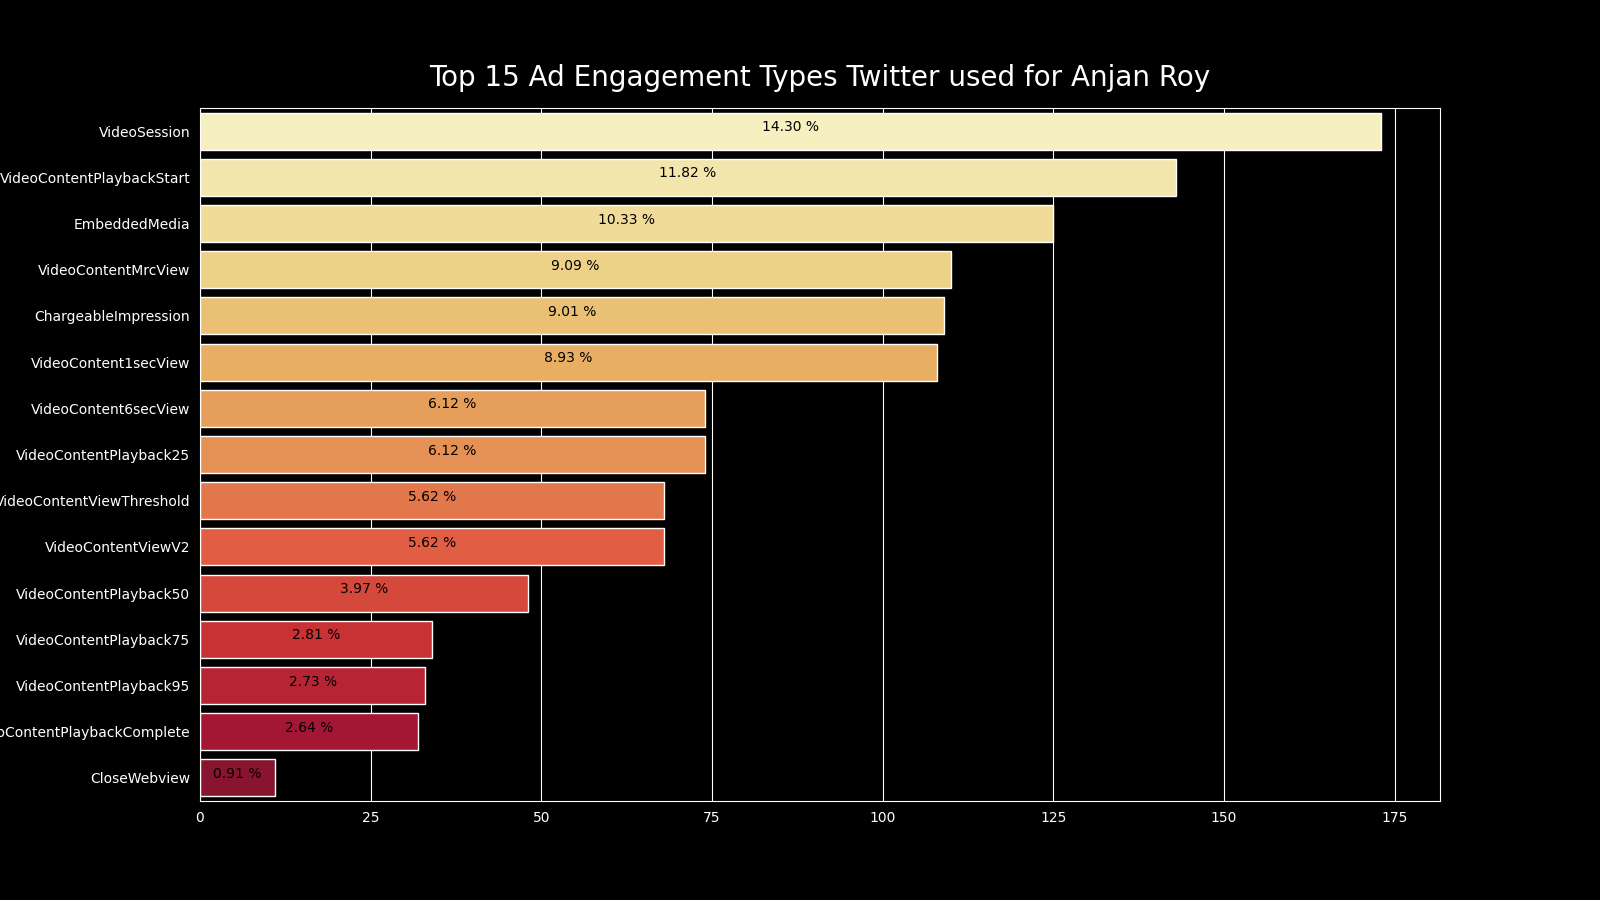
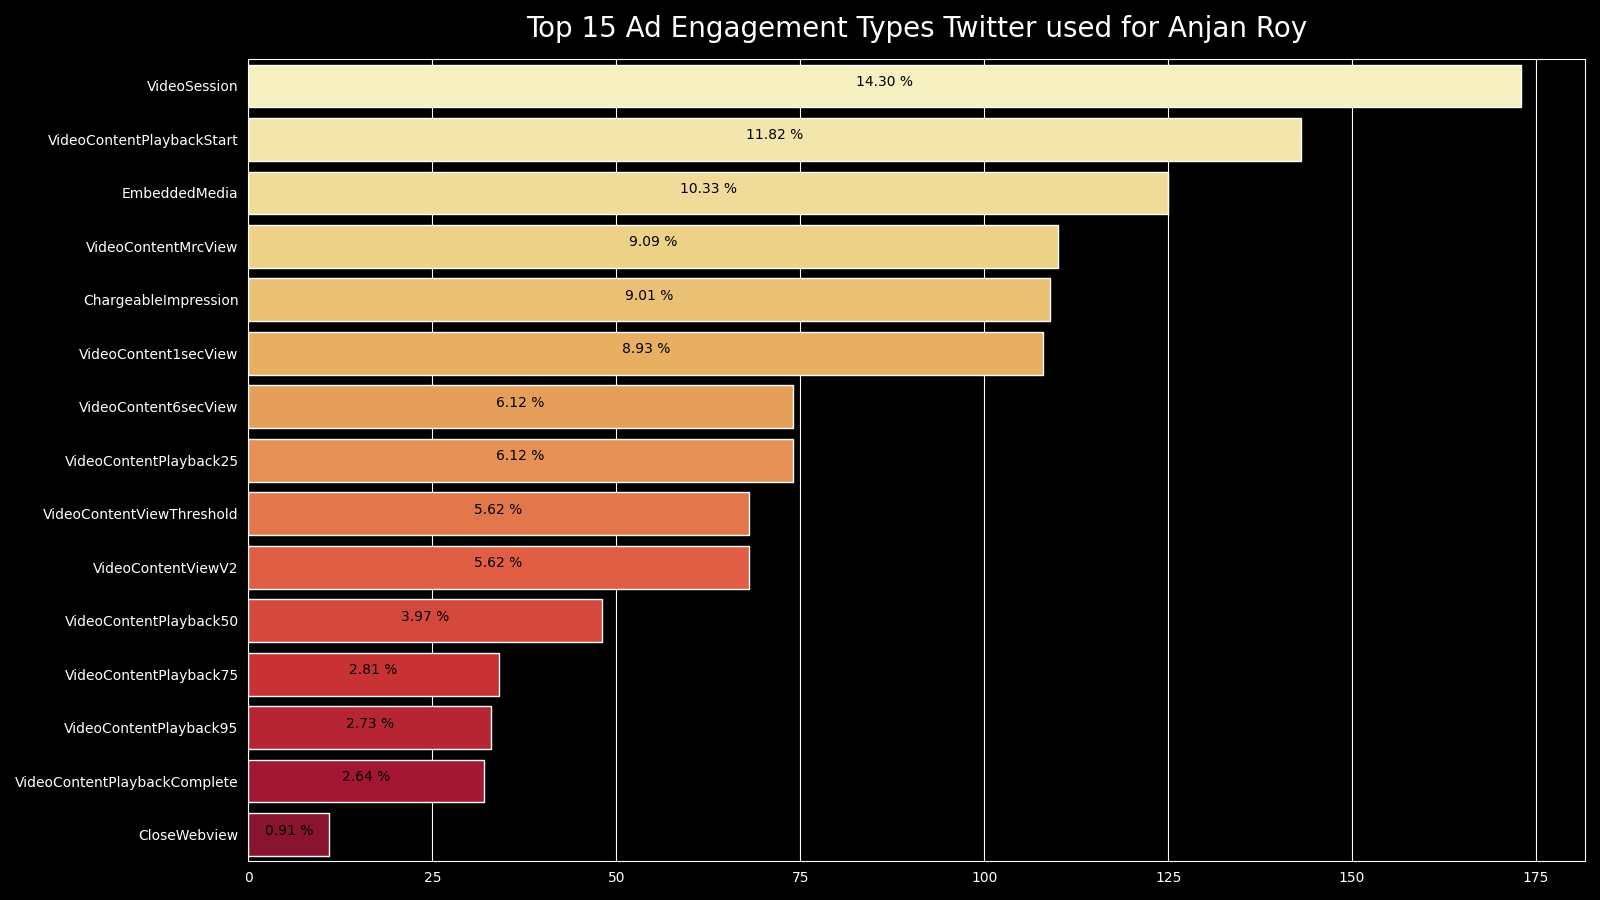
added doc, updated main readme with link to new doc

Changed region(s): [[0.0, 0.0, 0.9688, 0.9644]]

diff --git a/twiz/plot/ad/engagement/viz.py b/twiz/plot/ad/engagement/viz.py
@@ -179,6 +179,7 @@ def plotAdsCountGroupedByEngagementTypes(data: Engagements, x: int, title: str, 
                                color='black')
 
             fig.gca().set_title(title, fontsize=20, pad=16)
+            fig.tight_layout()
 
             fig.savefig(sink, pad_inches=.8)
             plt.close(fig)

diff --git a/README.md b/README.md
@@ -47,5 +47,6 @@ twiz path-to-twitter-data.zip sink/
         - [x] [Twitter Ads for **YOU**, by on-screen display location](./docs/twitterAdCountByDisplayLocationForYOU.md)
         - [x] [Twitter Ads for **YOU**, grouped by target Device Type & on-screen Ad Display Location](./docs/twitterAdsGroupedByDeviceTypeAndDisplayLocationForYOU.md)
         - [x] [Twitter Ads YOU engaged in, grouped by Advertiser Names](./docs/twitterAdsCountGroupedByAdvertiserNamesForYOU.md)
+        - [x] [Top 15 Twitter Ad Engagement Types used in YOUR case](./docs/twitterAdsCountGroupedByEngagementTypesForYOU.md)
 
 **This section will keep getting populated ;)**

diff --git a/docs/twitterAdsCountGroupedByEngagementTypesForYOU.md b/docs/twitterAdsCountGroupedByEngagementTypesForYOU.md
@@ -1,0 +1,11 @@
+# Top 15 Twitter Ad Engagement Types used in YOUR case
+
+## intro
+
+Here we're going to find out how twitter used different ad enagagement types for making you interact with advertisements. Top 15 of them to plotted as horizontal bar chart.
+
+## example
+
+Here's a demo plot.
+
+![twitterAdsCountGroupedByEngagementTypesForAnjan_Roy](../plots/twitterAdsCountGroupedByEngagementTypesForAnjan_Roy.png)
